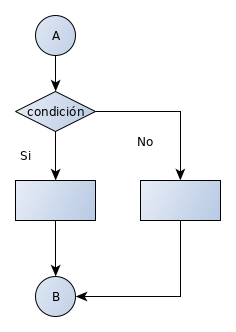
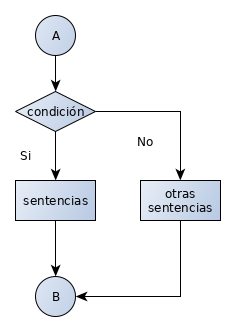
Actualización de presentaciones

Changed region(s): [[0.6229, 0.5723, 0.8898, 0.6627], [0.089, 0.5723, 0.3856, 0.6325]]

diff --git a/source/potencia.py b/source/potencia.py
@@ -1,0 +1,12 @@
+#!env python3
+print("Cálculo de una base elevada a una potencia")
+data = input("Escriba un número entero para la base: ")
+base = int(data)
+data = input("Escriba un número entero para la potencia: ")
+potencia = int(data)
+contador = 1
+resultado = base
+while contador < potencia:
+    resultado = resultado * base
+    contador = contador + 1
+print(str(base) + " elevado a la potencia " + str(potencia) + " es igual a: " + str(resultado))

diff --git a/docs/03.Estructuras.Basicas.deProgramcion.md b/docs/03.Estructuras.Basicas.deProgramcion.md
@@ -1,0 +1,63 @@
+# Estructuras Básicas de Programación
+
+
+## Programa de Cómputo
+Un programa de cómputo es la implementación de un algoritmo en un lenguaje de programación específico.
+
+Elevar un número a una potencia entera positiva (código en Powershell)
+```powershell
+$leido = Read-Host "¿Cuál es la base?"
+$base = [int] $leido
+$leido = Read-Host "¿Cuál es la potencia?"
+$potencia = [int] $leido
+$resultado = $base
+$contador = 1
+while($potencia -gt $contador){ $resultado = $resultado * $base;     $contador = $contador + 1}
+Write-Host $resultado
+``` 
+
+## Lenguaje de Programación
+Un lenguaje de programación es un lenguaje artificial cuyas sentencias se forman de acuerdo a un conjunto de reglas de escritura o sintaxis y se interpretan de acuerdo a un conjunto de reglas de semántica.   
+El lenguaje define un conjunto de símbolos, como caracteres y palabras que tienen un significado especial para el lenguaje.   
+Ejemplos de lenguajes de programación son:
+- Ensamblador
+- C, C++
+- Java
+- Python
+
+El [índice TIOBE](https://www.tiobe.com/tiobe-index/) registra la popularidad de los lenguajes de programación mes con mes
+
+### Lenguaje máquina
+El único lenguaje que puede ejecutar directamente la computadora (o el procesador) se conoce de manera general como **lenguaje máquina**. Los lenguajes de programación que utilizamos son abstracciones de nivel superior, de manera que podamos ignorar los detalles de los procesadores o procesador que estamos utilizando para ejecutar nuestros programas.
+
+## El de Programación
+En el proceso de programación se pueden identificar las siguientes etapas:
+- Edición
+- Compilación o Interpretación
+- Ejecución
+- Depuración
+
+### Edición
+Se refiere a la escritura de los algoritmos de acerdo a las reglas de sintaxis del lenguaje de programación en uso. Para este paso se puede utilizar un editor de texto simple, aunque comúnmente se utilizan editores especializados.   
+Este paso produce archivos de **código fuente**
+
+### Compilación o Interpretación
+El código fuente pasa por un proceso de revisión y traducción a otro lenguaje, realizado por un programa llamado **compilador** o **intérprete**.  
+En el caso de los compiladores, se produce un **código objeto** que puede ser enlazado a **bibliotecas de pogramación** para producir finalmente **código ejecutable.
+En el caso de los intérpretes, no se produce código ejecutable, se tiene que pasar por el proceso de interpretación cada vez.
+Existe el caso intermedio entre compiladores e intérpretes son los entornos administrados de ejecución (managed runtime execution environment), en los que se genera un código intermedio para una máquina virtual 
+
+### Ejecución
+El uso del programa
+
+### Depuración
+Es la eliminación de errores lógicos en el programa, observados al utilizar el programa. La corrección de estos errores reinician el proceso de programación
+
+## Paradigmas de Programación
+Un **paradigma** es un patron de pensamiento para la solución de problemas. 
+Un **paradigma de programación** es un modelo básico de diseño y desarrollo de programas, lo cual permite construir programas de acuerdo a un conjunto de reglas.
+Los lenguajes de programación pueden clasificarse de acuerdo a estos paradigmas.  
+De los paradigmas más nombrados se puede identificar al imperativo, orientado a objetos, basado en eventos y funcional.
+Java y Python son ambos imperativo y orientados a objetos.
+ 
+

diff --git a/docs/02.Fundamentos.de.Algoritmos.md b/docs/02.Fundamentos.de.Algoritmos.md
@@ -1,16 +1,17 @@
 # Fundamentos de Algoritmos
 
 - [Fundamentos de Algoritmos](#fundamentos-de-algoritmos)
-  - [Definición de Algoritmo](#definición-de-algoritmo)
+  - [Definición de Algoritmo](#definici%c3%b3n-de-algoritmo)
   - [Estructura de un algoritmo](#estructura-de-un-algoritmo)
-  - [Econtrar el mayor de tres números cualesquiera](#econtrar-el-mayor-de-tres-números-cualesquiera)
-  - [Pseudocódigo: Mayor de tres números](#pseudocódigo-mayor-de-tres-números)
-  - [Diagramas de Flujo: Estándar ANSI](#diagramas-de-flujo-estándar-ansi)
-  - [Diagrama de Flujo: Mayor de 3 números](#diagrama-de-flujo-mayor-de-3-números)
-  - [Estructuras Básicas de Programación](#estructuras-básicas-de-programación)
+  - [Econtrar el mayor de tres números cualesquiera](#econtrar-el-mayor-de-tres-n%c3%bameros-cualesquiera)
+  - [Pseudocódigo: Mayor de tres números](#pseudoc%c3%b3digo-mayor-de-tres-n%c3%bameros)
+  - [Diagramas de Flujo: Estándar ANSI](#diagramas-de-flujo-est%c3%a1ndar-ansi)
+  - [Diagrama de Flujo: Mayor de 3 números](#diagrama-de-flujo-mayor-de-3-n%c3%bameros)
+  - [Estructuras Básicas de Programación](#estructuras-b%c3%a1sicas-de-programaci%c3%b3n)
   - [Estructura secuencial](#estructura-secuencial)
   - [Estructuras Selectivas](#estructuras-selectivas)
   - [Estructura Iterativa](#estructura-iterativa)
+  - [Tareas](#tareas)
 
 
 ## Definición de Algoritmo
@@ -142,3 +143,15 @@ DESPLEGAR resultado
 ```
 Diagrama de flujo:  
 ![power](../img/flowchart-power.png)
+
+## Tareas
+Presentar en diagrama de flujo en yEd y en seudocódigo los siguietnes programas
+1. Escriba un algoritmo que calcule, dada una temperatura en grados centígrados, su equivalente en grados Fahrenheit y viceversa. 
+      - Nota: Para convertir de centígrados a Fahrenheit se utiliza la fórmula 9/5x+32, donde x es son los grados centígrados. Para convertir de farenheit a centígrados, se puede usar 5-9(x-32)
+      - Nota 2: Este algoritmo solo utiliza estructura secuencial
+  2. Escriba un algoritmo que dados el número de kilómetros recorridos y la cantidad de litros utilizada para recorrerlos, calcule el rendimiento en kilómetros por litro de un vehículo
+      - Nota: Este algoritmo solo requiere estructura secuencial
+  3. Escriba un algoritmo, que dados 5 números enteros, determine cuantos de estos números son negativos, cuantos positivos y cuantos cero.  
+        - Nota: Escriba una versión de este algoritmo usando solamente estructuras secuenciales y de selección o decisión, no utilice estructuras de repetición.
+        - Nota 2: Escriba otra versión de este algoritmo usando estructuras secuenciales, de selección y repetición
+- 

diff --git a/docs/04.Elementos.del.Lenguaje.Python.md b/docs/04.Elementos.del.Lenguaje.Python.md
@@ -1,0 +1,26 @@
+# Elementos del Lenguaje de Programación Python
+- [Elementos del Lenguaje de Programación Python](#elementos-del-lenguaje-de-programaci%c3%b3n-python)
+  - [Estructura de un programa](#estructura-de-un-programa)
+  - [Entorno del Lenguaje](#entorno-del-lenguaje)
+    - [El Lenguaje Python](#el-lenguaje-python)
+    - [Visual Studio Code](#visual-studio-code)
+
+## Estructura de un programa
+Los programas fuente de Python se implementan en un archivo con extensión .py por convención.  
+Los programas pueden dividirse en funciones (`def`) o clases (`class`) y un conjunto de ambos puede formar un módulo.
+
+## Entorno del Lenguaje
+### El Lenguaje Python
+- El lenguaje de Programación fue creado por **Guido van Rossum** en 1991.
+- Python es de tipos dinámicos, procedural y orientado a objetos
+- Python tiene una amplia gama de bibliotecas de programación
+- Python hace énfasis en el uso de espacios en blanco para mejorar la legibilidad
+- Python es estándar en MacOS y GNU/Linux
+
+![python-xkcd](../img/python.png)
+
+
+### Visual Studio Code
+
+
+#
